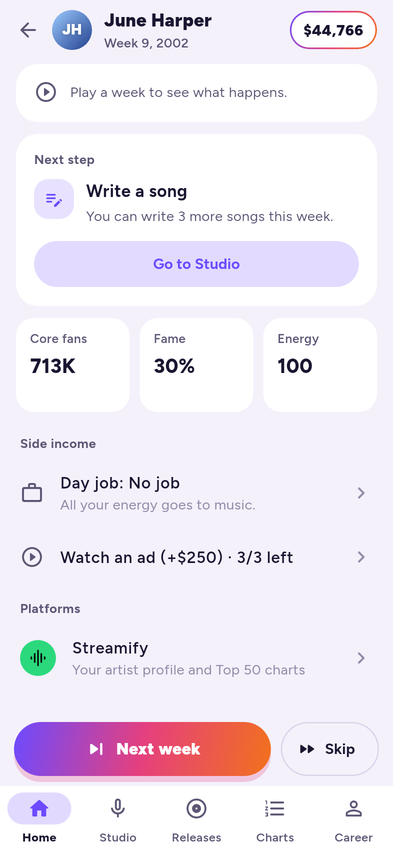
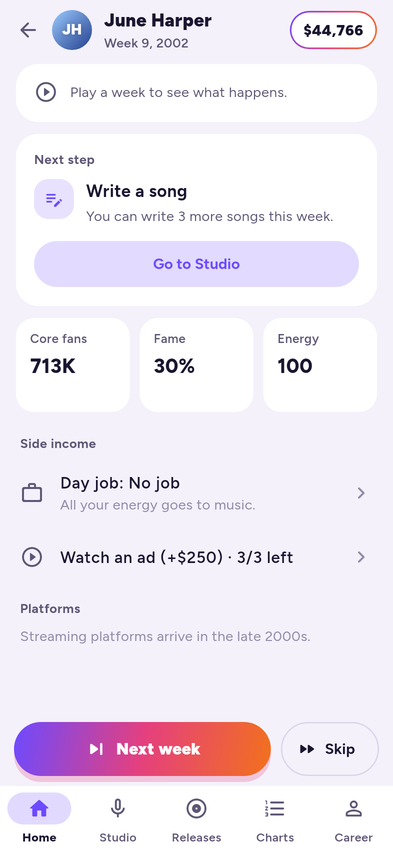
Streamify appears in its launch year with news (feedback D1, first step)
- PlatformLaunched event when a platform chart starts (2009 global, 2011
  North America), shown as a news line.
- Before launch, Home says streaming platforms arrive later and chart
  rows don't open Streamify pages.

Claude-Session: https://claude.ai/code/session_01UqeaYiXbKvrTFgHV44HcjP

Changed region(s): [[0.0305, 0.7324, 0.7634, 0.7934]]

diff --git a/app/lib/screens/dashboard_tab.dart b/app/lib/screens/dashboard_tab.dart
@@ -553,23 +553,33 @@ class _MoreSection extends StatelessWidget {
                 fontWeight: FontWeight.w700,
                 fontSize: 13)),
       ),
-      ListTile(
-        contentPadding: const EdgeInsets.symmetric(horizontal: 4),
-        leading: Container(
-          width: 36,
-          height: 36,
-          decoration: const BoxDecoration(
-              color: StreamifyColors.accent, shape: BoxShape.circle),
-          child: const Icon(Icons.graphic_eq_rounded,
-              color: Colors.black, size: 20),
+      // Platforms appear in their real launch years (docs K38).
+      if (GameTime.yearOf(career.week) <
+          Charts.all[Charts.platformGlobal].startYear)
+        Padding(
+          padding: const EdgeInsets.fromLTRB(4, 4, 4, 0),
+          child: Text(l.platformsLater,
+              style: TextStyle(color: AppColors.textFaint)),
+        )
+      else
+        ListTile(
+          contentPadding: const EdgeInsets.symmetric(horizontal: 4),
+          leading: Container(
+            width: 36,
+            height: 36,
+            decoration: const BoxDecoration(
+                color: StreamifyColors.accent, shape: BoxShape.circle),
+            child: const Icon(Icons.graphic_eq_rounded,
+                color: Colors.black, size: 20),
+          ),
+          title: const Text(platformName,
+              style: TextStyle(fontWeight: FontWeight.w600)),
+          subtitle: Text(l.streamifyTileHint,
+              style: TextStyle(color: AppColors.textFaint)),
+          trailing:
+              Icon(Icons.chevron_right_rounded, color: AppColors.textFaint),
+          onTap: () => pushInCareer(context, const StreamifyScreen()),
         ),
-        title: const Text(platformName,
-            style: TextStyle(fontWeight: FontWeight.w600)),
-        subtitle: Text(l.streamifyTileHint,
-            style: TextStyle(color: AppColors.textFaint)),
-        trailing: Icon(Icons.chevron_right_rounded, color: AppColors.textFaint),
-        onTap: () => pushInCareer(context, const StreamifyScreen()),
-      ),
     ]);
   }
 }

diff --git a/app/lib/core/event_lines.dart b/app/lib/core/event_lines.dart
@@ -39,6 +39,7 @@ List<EventLine> describeEvents(GameSession s, List<GameEvent> events) {
         PlaylistAdded() => EventLine(e, title: song(e.songId)),
         EraClosed() => EventLine(e),
         BurnoutOver() => EventLine(e),
+        PlatformLaunched() => EventLine(e),
         RivalNumberOne() => EventLine(e,
             title: entity(e.kind, e.entityId),
             artistName: w.artists[e.artistId].name),
@@ -61,7 +62,8 @@ List<EventLine> sortLines(List<EventLine> lines) {
         NewPeak() => 5,
         PlaylistAdded() => 6,
         BurnoutOver() => 7,
-        RivalNumberOne() => 8,
+        PlatformLaunched() => 8,
+        RivalNumberOne() => 9,
       };
   return [...lines]..sort((a, b) => rank(a).compareTo(rank(b)));
 }

diff --git a/packages/game/test/game_test.dart b/packages/game/test/game_test.dart
@@ -292,5 +292,14 @@ void main() {
       expect(until.weeks, lessThanOrEqualTo(52));
       g.close();
     });
+
+    test('the streaming platform launches in its real year with news', () {
+      final g = GameSession.start(slots, _setup(startYear: 2008));
+      final y = g.advanceWeeks(GameTime.weeksPerYear + 1, stop: SkipStop.never);
+      final launches = y.events.whereType<PlatformLaunched>().toList();
+      expect(launches.map((e) => e.chartId), [Charts.platformGlobal]);
+      expect(GameTime.yearOf(g.week), 2009);
+      g.close();
+    });
   });
 }

diff --git a/app/lib/screens/charts_tab.dart b/app/lib/screens/charts_tab.dart
@@ -73,7 +73,10 @@ class _ChartsTabState extends State<ChartsTab> {
               builder: (_) => songs
                   ? SongDetailScreen(songId: r.entityId, state: career)
                   : AlbumDetailScreen(albumId: r.entityId, state: career)));
-    } else {
+    } else if (GameTime.yearOf(career.week) >=
+        Charts.all[Charts.platformGlobal].startYear) {
+      // Rival pages live on the streaming platform, which only exists from
+      // its launch year (docs K38).
       pushInCareer(context, ArtistPage(artistId: r.artistId));
     }
   }

diff --git a/app/lib/core/format.dart b/app/lib/core/format.dart
@@ -267,6 +267,9 @@ class Fmt {
           : l.eventPlaylistMid(t, platformName),
       EraClosed() => l.eventEraClosed(eraResult(e.result)),
       BurnoutOver() => l.eventBurnoutOver,
+      PlatformLaunched() => e.chartId == Charts.platformGlobal
+          ? l.eventPlatformLaunched(platformName)
+          : l.eventPlatformArrived(platformName, l.regionNorthAmerica),
       RivalNumberOne() =>
         l.eventRivalNumberOne(line.artistName, t, chart(e.chartId)),
     };

diff --git a/app/lib/widgets/event_icon.dart b/app/lib/widgets/event_icon.dart
@@ -21,6 +21,7 @@ class EventIcon extends StatelessWidget {
       PlaylistAdded() => (Icons.headphones_rounded, AppColors.mint),
       EraClosed() => (Icons.insights_rounded, AppColors.pink),
       BurnoutOver() => (Icons.edit_note_rounded, AppColors.butter),
+      PlatformLaunched() => (Icons.graphic_eq_rounded, AppColors.mint),
       RivalNumberOne() => (Icons.newspaper_rounded, AppColors.textMuted),
     };
     return IconBubble(icon, color: color, size: size);

diff --git a/packages/game/lib/src/events.dart b/packages/game/lib/src/events.dart
@@ -114,3 +114,12 @@ class RivalNumberOne extends GameEvent {
   @override
   bool get isIndustry => true;
 }
+
+/// A streaming platform opened in a region this week (docs K38): its Top 50
+/// chart [chartId] starts.
+class PlatformLaunched extends GameEvent {
+  const PlatformLaunched(this.chartId);
+  final int chartId;
+  @override
+  bool get isMajor => false;
+}

diff --git a/packages/game/lib/src/game_session.dart b/packages/game/lib/src/game_session.dart
@@ -713,6 +713,15 @@ class GameSession {
         }
       }
     }
+    for (final c in const [
+      Charts.platformGlobal,
+      Charts.platformNorthAmerica,
+    ]) {
+      final def = Charts.all[c];
+      if (def.activeIn(r.week) && !def.activeIn(r.week - 1)) {
+        events.add(PlatformLaunched(c));
+      }
+    }
     return events;
   }
 }

diff --git a/packages/game/tool/play.dart b/packages/game/tool/play.dart
@@ -206,4 +206,5 @@ String _event(GameSession s, GameEvent e) => switch (e) {
         'era closed: ${e.result.name} (${_c(e.units)} vs exp ${_c(e.expected)})',
       BurnoutOver() => 'burnout over',
       RivalNumberOne() => 'rival #1 ${Charts.all[e.chartId].key}',
+      PlatformLaunched() => 'platform launched ${Charts.all[e.chartId].key}',
     };

diff --git a/tools/l10n/gen_arb.py b/tools/l10n/gen_arb.py
@@ -382,6 +382,9 @@ k('photoPlatform','{platform} photo','{platform} fotoğrafı', platform='String'
 k('photoPlatformOwn','Its own photo','Kendine özel fotoğraf')
 k('photoUsesGeneral','Uses your profile photo','Profil fotoğrafını kullanıyor')
 
+k('eventPlatformLaunched','{platform} has launched: songs now get streamed there, with its own Top 50.','{platform} yayına girdi: şarkılar artık orada da dinleniyor, kendi Top 50 listesiyle.', platform='String')
+k('eventPlatformArrived','{platform} arrived in {region}.','{platform} {region} pazarına geldi.', platform='String', region='String')
+k('platformsLater','Streaming platforms arrive in the late 2000s.','Streaming platformları 2000\'lerin sonunda gelecek.')
 # Celebrations and sharing (feedback E6, R1)
 k('celebrateNumberOne','Number one!','Bir numara!')
 k('celebrateFirstChart','Your first chart entry!','İlk liste girişin!')

diff --git a/docs/feedback.md b/docs/feedback.md
@@ -41,7 +41,7 @@ Kaynak: **E** = Emir'in notu, **T** = Claude'un test oyunu. Öncelik: **1** = ö
 
 | # | Konu | Kaynak | Öncelik | Ne yapılacak |
 |---|---|---|---|---|
-| D1 | **Müzik platformları gerçek hayattaki çıkış yıllarına göre gelsin.** Şu an Streamify kutusu ana ekranda her yıl görünüyor; listeleri 2009 (global/Avrupa) ve 2011'den (Kuzey Amerika) itibaren var. | E | 2 | Kurgusal isimlerle, gerçekteki çıkış yıllarına göre: **dijital indirme mağazası** 2003 (ABD; Avrupa 2004), **video platformu** 2005 (klip izlenmeleri, 2006'dan büyüme), **ses paylaşım platformu** 2008 (bağımsız sanatçılar, keşfedilme), **Streamify** 2008 Avrupa / 2011 ABD, **ikinci büyük streaming servisi** 2015, **kısa video uygulaması** 2017–2018 (viral şarkılar). Çıkmadan önce Platformlar bölümünde görünmesin (ya da "20XX'te geliyor" diye kilitli dursun). Çıkış yılı gelince haber: "Yeni bir platform çıktı". Platformlar haftalık simülasyonda zaten var olan stream / indirme / video paylarına bağlanacak; dönem tablosu (era table) aynı yılları kullanıyor. |
+| D1 | **Müzik platformları gerçek hayattaki çıkış yıllarına göre gelsin.** Şu an Streamify kutusu ana ekranda her yıl görünüyor; listeleri 2009 (global/Avrupa) ve 2011'den (Kuzey Amerika) itibaren var. | E | 2 | Kurgusal isimlerle, gerçekteki çıkış yıllarına göre: **dijital indirme mağazası** 2003 (ABD; Avrupa 2004), **video platformu** 2005 (klip izlenmeleri, 2006'dan büyüme), **ses paylaşım platformu** 2008 (bağımsız sanatçılar, keşfedilme), **Streamify** 2008 Avrupa / 2011 ABD, **ikinci büyük streaming servisi** 2015, **kısa video uygulaması** 2017–2018 (viral şarkılar). Çıkmadan önce Platformlar bölümünde görünmesin (ya da "20XX'te geliyor" diye kilitli dursun). Çıkış yılı gelince haber: "Yeni bir platform çıktı". Platformlar haftalık simülasyonda zaten var olan stream / indirme / video paylarına bağlanacak; dönem tablosu (era table) aynı yılları kullanıyor. **İlk adım yapıldı:** Streamify 2009'dan önce görünmüyor (Ana ekranda "Streaming platformları 2000'lerin sonunda gelecek", listelerden rakip sayfası açılmıyor); 2009'da "Streamify yayına girdi", 2011'de "Kuzey Amerika'ya geldi" haberi. Diğer platformlar (indirme mağazası, video, ses paylaşım, ikinci streaming servisi, kısa video) kendi özellikleriyle gelecek. |
 
 ## E. Arayüz (Claude'un ekran incelemesi)
 
